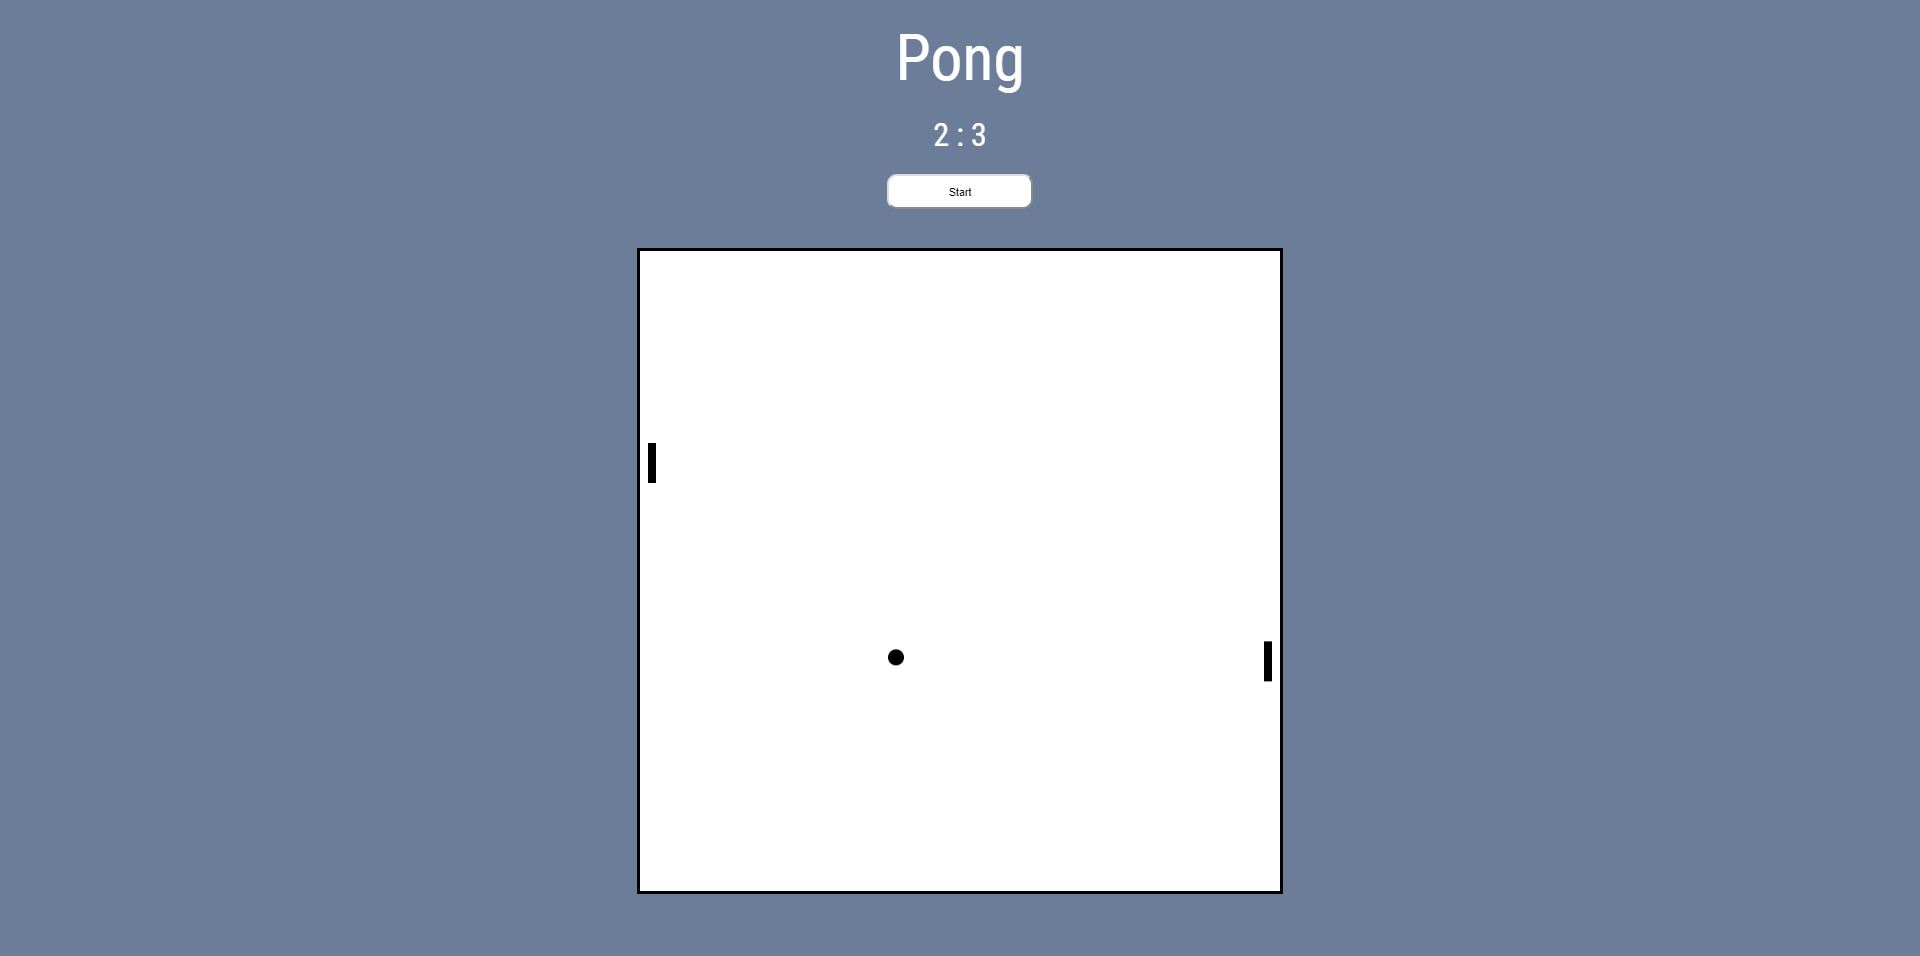
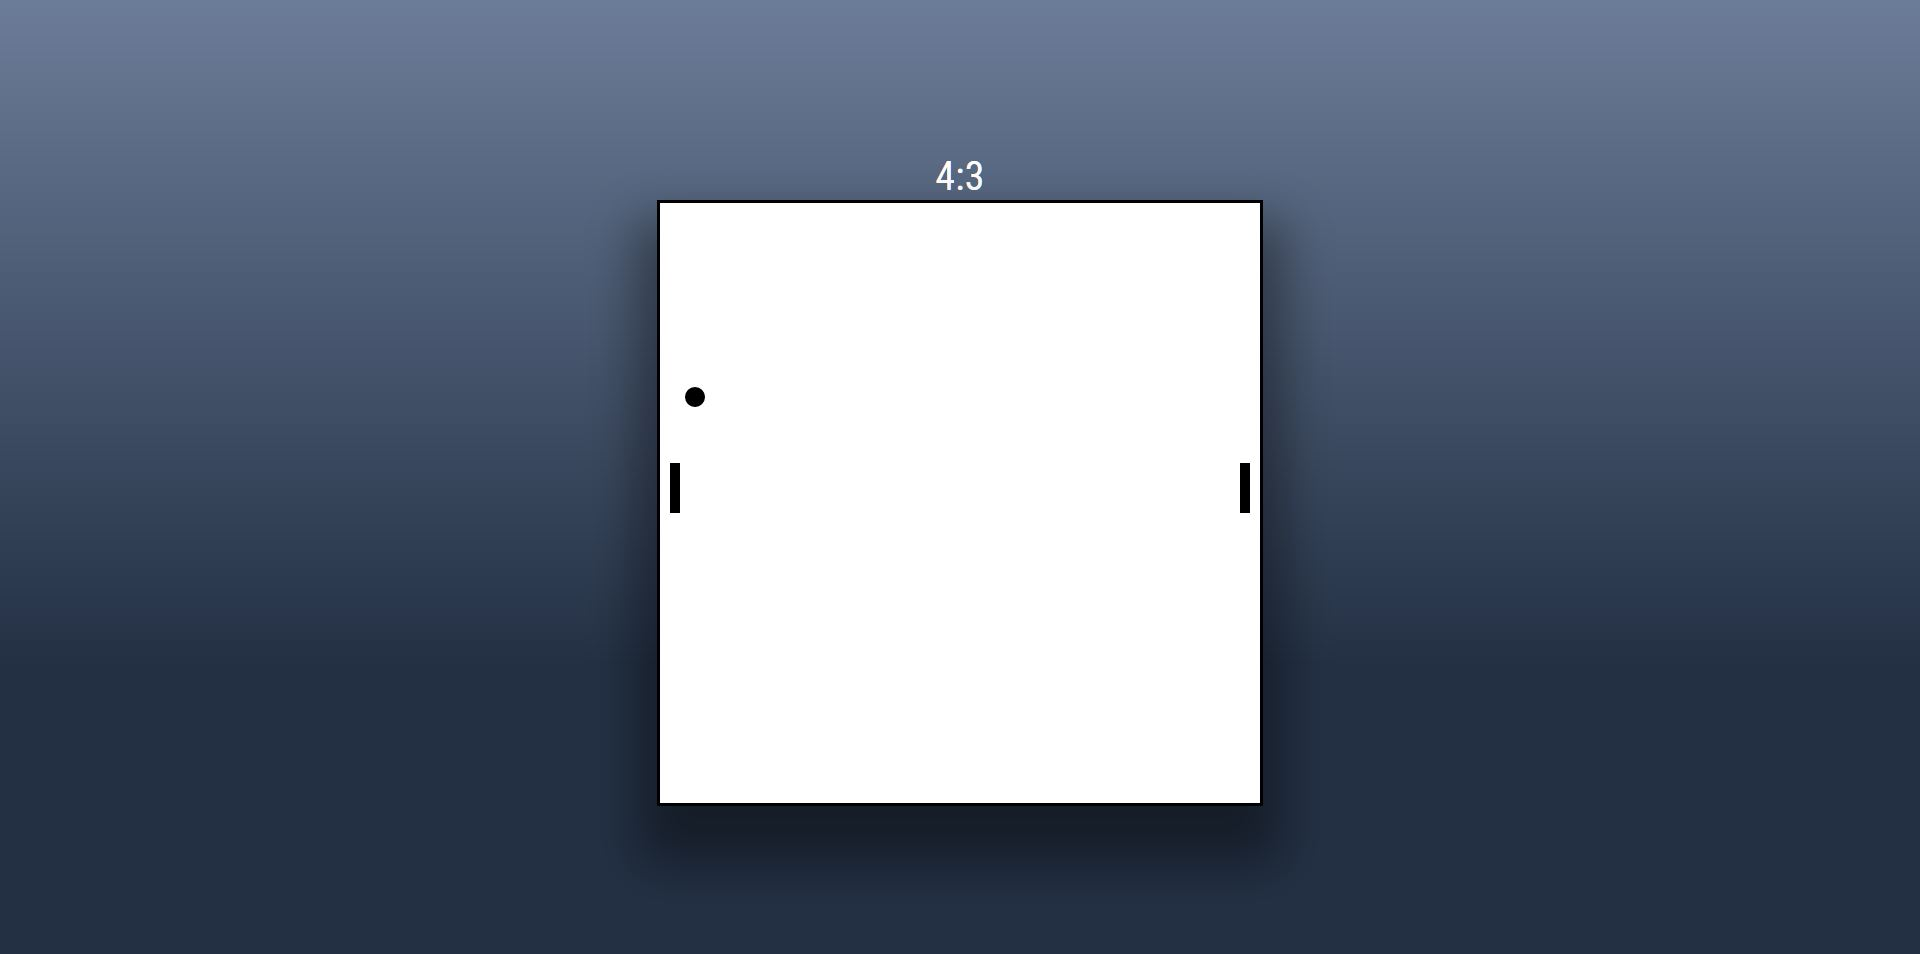
New modern design

diff --git a/js/index.js b/js/index.js
@@ -5,35 +5,26 @@ var requestAnimationFrame = window.requestAnimationFrame || window.mozRequestAni
 							window.webkitRequestAnimationFrame || window.msRequestAnimationFrame;
 							window.requestAnimationFrame = requestAnimationFrame;
 
-var startButton = document.getElementById("btn");
-var scoreboard = document.getElementById("scoreboard");
-var score1 = document.getElementById("score__one");
-var score2 = document.getElementById("score__two");
-var canvas = document.getElementById("canvas");
+var startButton = document.querySelector(".start");
+var playerScore = document.querySelector(".player");
+var computerScore = document.querySelector(".computer");
+var canvas = document.querySelector(".canvas");
 var ctx = canvas.getContext("2d");
 var keyW = false;
 var keyS = false;
 var keyUp = false;
 var keyDown = false;
 var player1X = 10;
-var player1Y = 360;
-var player2X = 780;
-var player2Y = 360;
-var raf;
-var running = false;
+var player1Y = 260;
+var player2X = 580;
+var player2Y = 260;
 
 var player1Score = 0;
 var player2Score = 0;
 
-function init() {
-	scoreboard.classList.add("display");
-}
-
-init();
-
 var ball = {
-	x: 400,
-	y: 400,
+	x: 300,
+	y: 300,
 	vx: 5,
 	vy: 2,
 	radius: 10,
@@ -45,12 +36,12 @@ var ball = {
 	}
 }
 
-canvas.width  = 800;
-canvas.height = 800;
+canvas.width  = 600;
+canvas.height = 600;
 
 function draw() {
 	window.requestAnimationFrame(draw);
-	ctx.clearRect(0, 0, 800, 800);
+	ctx.clearRect(0, 0, 600, 600);
 	ctx.save();
 	var player1 = ctx.fillRect(player1X, player1Y, 10, 50);
 	ctx.restore();
@@ -91,26 +82,23 @@ function draw() {
 
 	// Player Movement
 	if (keyS == true) {
-		player1Y = Math.min(750, player1Y += 8);
+		player1Y = Math.min(550, player1Y += 8);
 	}
 	if (keyW == true) {
 		player1Y = Math.max(0, player1Y -= 8);
 	}
 	if (keyDown == true) {
-		player2Y = Math.min(750, player2Y += 8);
+		player2Y = Math.min(550, player2Y += 8);
 	}
 	if (keyUp == true) {
 		player2Y = Math.max(0, player2Y -= 8);
 	}
 
-	score1.textContent = player1Score;
-	score2.textContent = player2Score;
+	playerScore.textContent = player1Score;
+	computerScore.textContent = player2Score;
 }
 
-startButton.addEventListener("click", function() {
-	scoreboard.classList.remove("display");
-	window.requestAnimationFrame(draw);
-});
+window.requestAnimationFrame(draw);
 
 function onKeyDown(event) {
   	var keyCode = event.keyCode;

diff --git a/css/style.css b/css/style.css
@@ -13,46 +13,23 @@ body {
 	font-family: 'Roboto Condensed', sans-serif;
 	text-align: center;
 	color: #fff;
-	background-color: #6c7d99;
+	background-image: linear-gradient(to bottom, #6c7d99, #233044 70%);
 }
 
 .container {
-	zoom: 0.8;
-	transform: scale(1);
-    -moz-transform: scale(0.8);
+	height: 100vh;
+	display: flex;
+  	flex-direction: column;
+	justify-content: center;
 }
 
-.heading-primary {
-	margin: 2rem;
-	font-weight: 400;
-	font-size: 8rem;
-}
-
-.heading-secondary {
-	margin: auto auto 0;
-}
-
-.score {
-	font-weight: 400;
+.scoreboard {
 	font-size: 4rem;
 }
 
-#btn {
-	margin-top: 2rem;
-	padding: 1rem 6rem;
-	border-radius: 1rem;
-	background: white;
-}
-
-.container > canvas {
-	margin: auto;
-	display: block;
-	margin-top: 2%;
-	border-style: solid;
-	border-color: black;
+.canvas {
+	margin: 0 auto;
+	border: .3rem solid #000;
 	background-color: white;
-}
-
-.display {
-	font-size: 0;
+	box-shadow: 0 4rem 8rem 2rem rgba(0, 0, 0, 0.4);
 }

diff --git a/index.html b/index.html
@@ -8,20 +8,11 @@
 </head>
 <body>
 	<div class="container">
-		<h1 class="heading-primary">Pong</h1>
-		<h2 class="heading-secondary">
-			<span id="scoreboard" class="score">
-				<span id="score__one"></span> :
-				<span id="score__two"></span>
-			</span>
-			<div>
-				<button id="btn" type="button">Start</button>
-			</div>
-		</h2>
-
-		<canvas id="canvas"></canvas>
-
-		<script type="text/javascript" src="js/index.js"></script>
+		<div class="scoreboard">
+			<span class="player">0</span>:<span class="computer">0</span>
+		</div>
+		<canvas class="canvas"></canvas>
 	</div>
+	<script type="text/javascript" src="js/index.js"></script>
 </body>
 </html>
